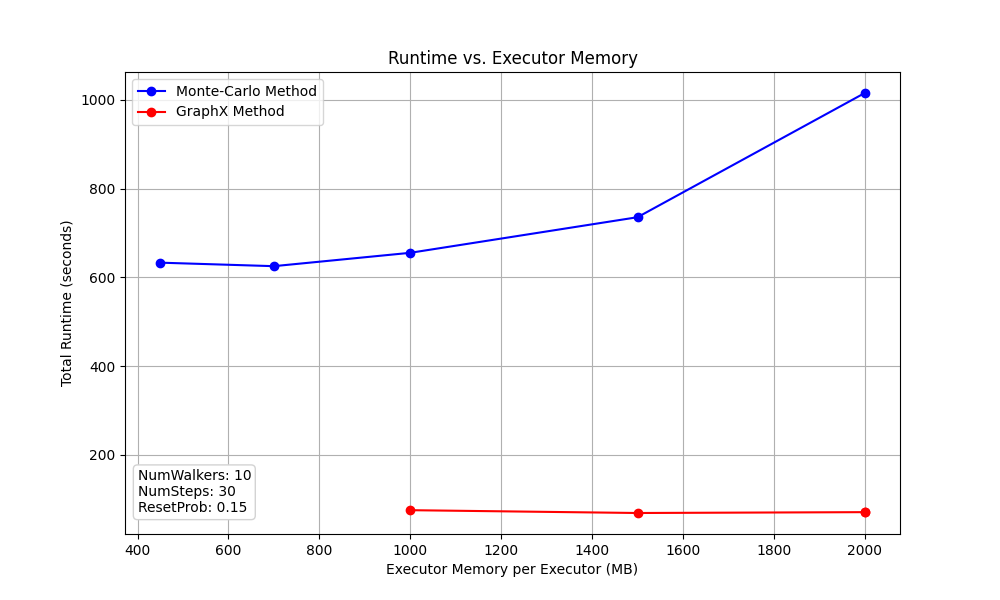
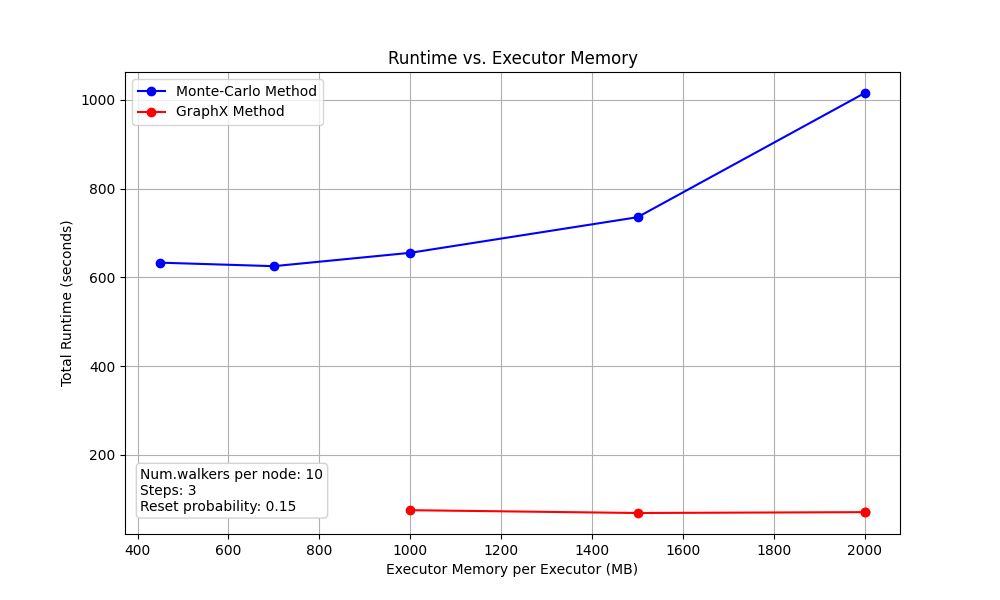
Added plot v1 with legend and configs

Changed region(s): [[0.124, 0.75, 0.341, 0.87]]

diff --git a/performance_plot.py b/performance_plot.py
@@ -1,13 +1,12 @@
 import pandas as pd
 import matplotlib.pyplot as plt
 
-data_file = 'MonteCarlo_performance_data.csv'
-
 try:
-    df = pd.read_csv(data_file)
-    dfGX = pd.read_csv('GraphX_performance_data.csv')
+    df = pd.read_csv('output/csv_files/MonteCarlo_performance_data.csv')
+    dfGX = pd.read_csv('output/csv_files/GraphX_performance_data.csv')
+    dfConf = pd.read_csv('output/csv_files/MC_configs.csv')
 except FileNotFoundError:
-    print(f"Error: The data file '{data_file}' was not found.")
+    print(f"Error: The data file was not found.")
     print("Please create the file with your performance data.")
     exit()
 
@@ -31,10 +30,20 @@ plt.plot(
     label='GraphX Method'
 )
 
-plt.text(400, 70, 'NumWalkers: 10\n'
-                  'NumSteps: 30\n'
-                  'ResetProb: 0.15',
-         fontsize=10, bbox=dict(boxstyle='round,pad=0.3', facecolor='white', edgecolor='lightgray'))
+numWalkers = dfConf.at[0, 'numWalkers']
+numSteps = dfConf.at[0, 'numSteps']
+resetProb = dfConf.at[0, 'resetProb']
+
+config_text = f"Num.walkers per node factor: {numWalkers}\n" \
+              f"Steps: {numSteps}\n" \
+              f"Reset probability: {resetProb}"
+
+plt.text(0.02,
+         0.87,
+         config_text,
+         fontsize=10,
+         transform=plt.gca().transAxes,
+         bbox=dict(boxstyle='round,pad=0.3', facecolor='white', edgecolor='lightgray'))
 
 plt.title('Runtime vs. Executor Memory')
 plt.xlabel('Executor Memory per Executor (MB)')
@@ -44,6 +53,6 @@ plt.grid(True)
 
 plt.legend()
 
-output_image_file = 'memory_vs_runtime_v1.png'
+output_image_file = 'output/plots/memory_vs_runtime_v4.png'
 plt.savefig(output_image_file)
 print(f"Plot saved to '{output_image_file}'")

diff --git a/jaccard_similarity.py b/jaccard_similarity.py
@@ -1,0 +1,29 @@
+import csv
+
+
+def csv_to_list(file):
+    first_column = []
+    with open(file, newline='') as csvfile:
+        reader = csv.reader(csvfile)
+        next(reader)
+        for row in reader:
+            if row:
+                first_column.append(row[0])
+    print(first_column)
+    return first_column
+
+
+def jaccard(list1, list2):
+    intersection = len(list(set(list1).intersection(list2)))
+    union = (len(list1) + len(list2)) - intersection
+    similarity = float(intersection) / union
+    distance = 1 - similarity
+    return similarity, distance
+
+
+GX_ranks_list = csv_to_list('output/csv_files/GX_top_20_ranks_1000m.csv')
+MC_ranks_list = csv_to_list('output/csv_files/MC_top_20_ranks_1000m.csv')
+
+J_similarity, J_Distance = jaccard(GX_ranks_list,MC_ranks_list)
+print(f"Jaccard Similarity: {J_similarity}")
+print(f"Jaccard DIstance: {J_Distance}")
